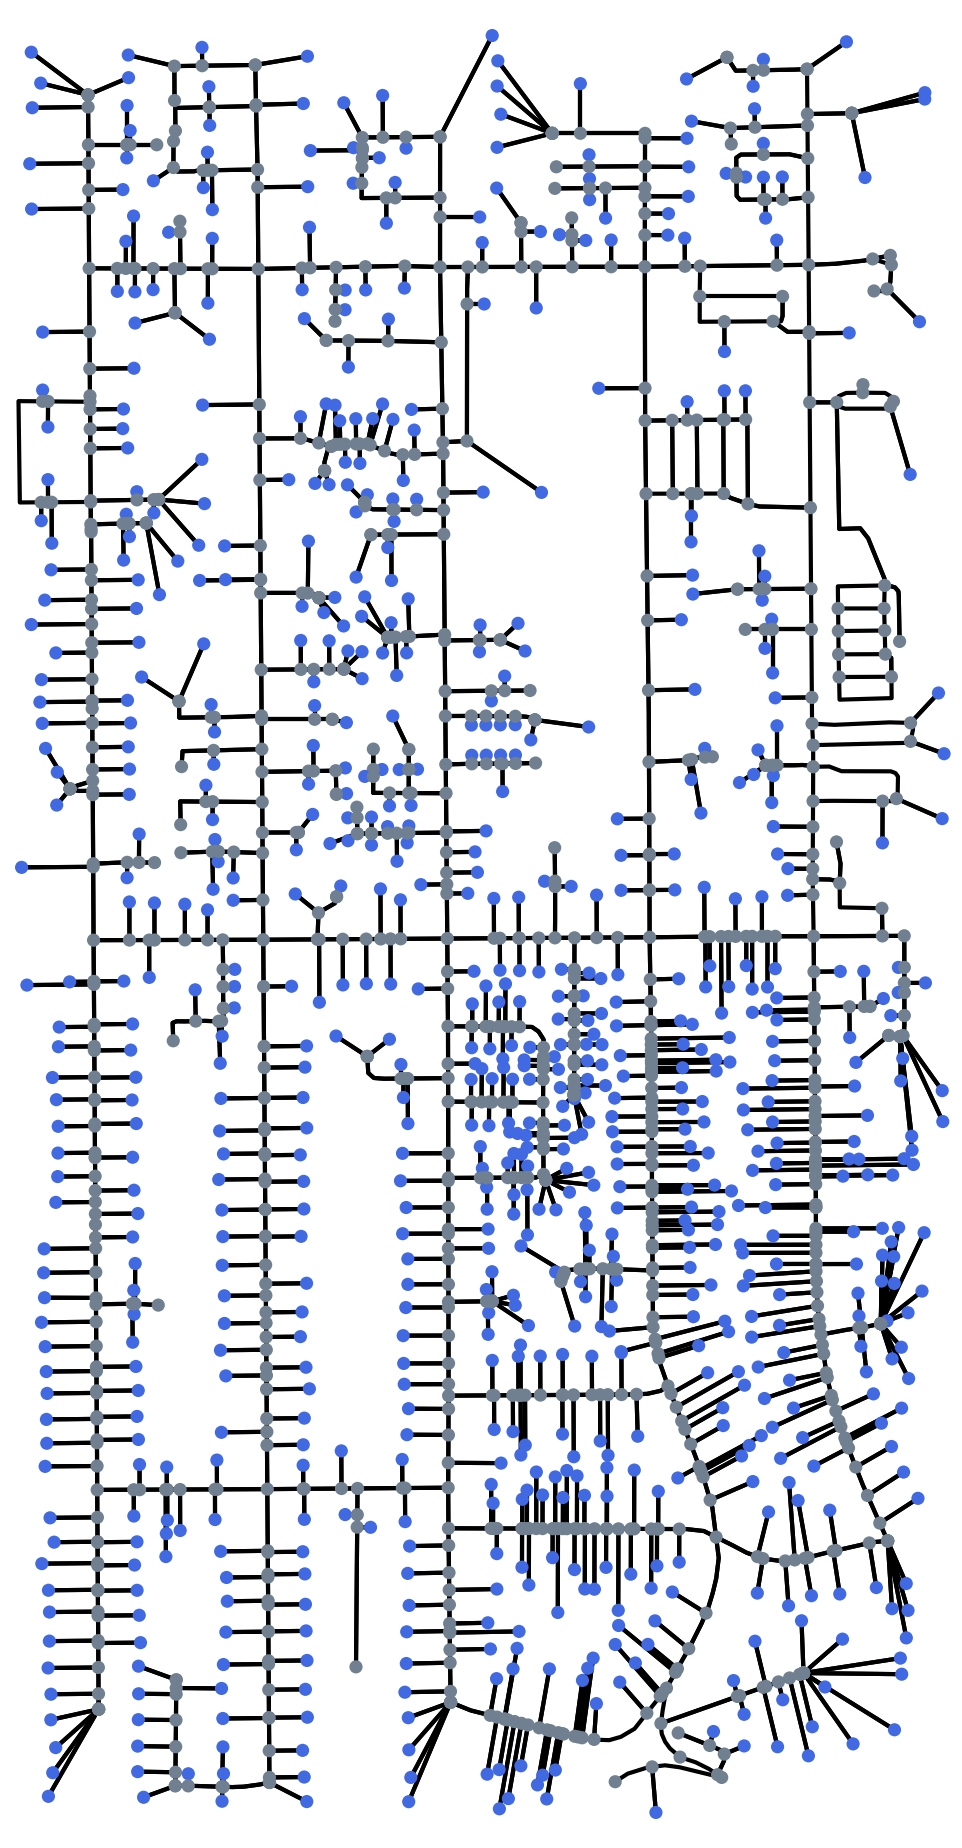
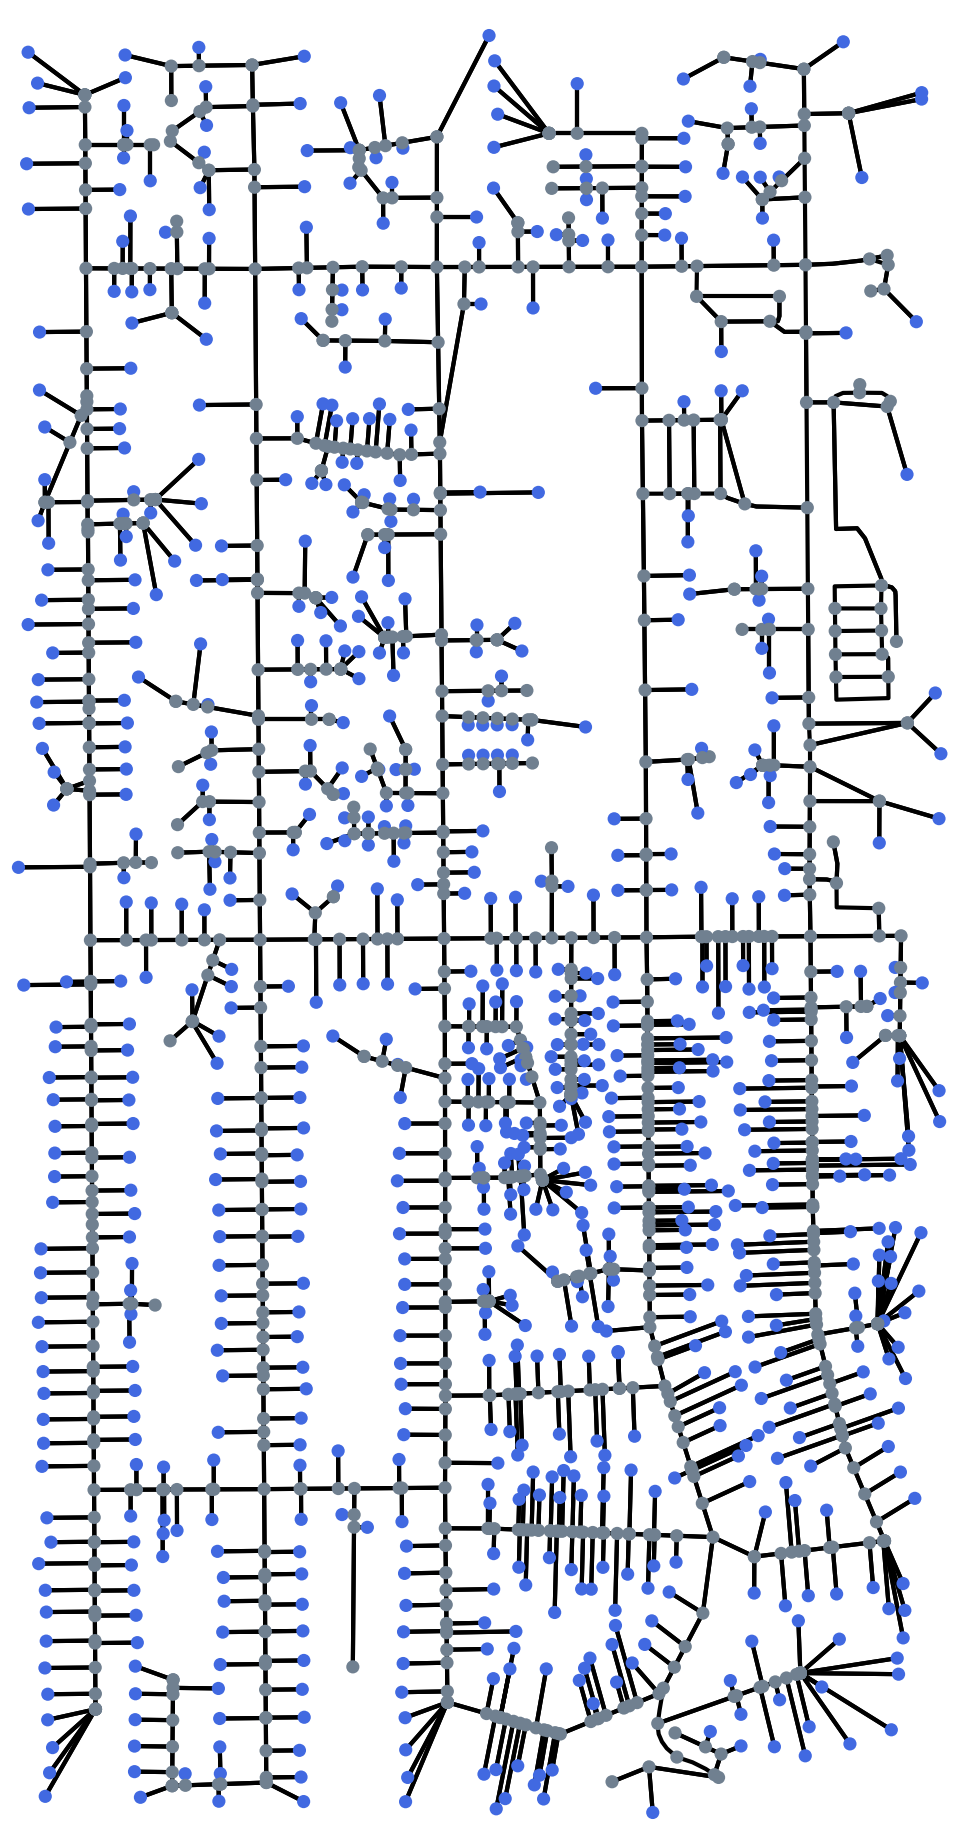
Connected Projection Nodes to Surrounding

diff --git a/bp25/backend/MultiTSP.py b/bp25/backend/MultiTSP.py
@@ -1,39 +1,116 @@
 import networkx as nx
 from networkx import MultiDiGraph
-from CreateGraph import create_graph
+from create_graph import create_graph
 import heapq
 
-def nearest_unvisited_node(grf : MultiDiGraph, start, visited):
-    #dijkstra out
+
+def nearest_unvisited_node(grf: MultiDiGraph, start, visited):
+    # Dijkstra: initialize distances and predecessors
     distances = {node: float('infinity') for node in grf.nodes()}
-    prev = [{node : -1 for node in grf.nodes()}]
+    # prev[node] will store the previous node along the shortest path
+    prev = {node: None for node in grf.nodes()}
+    distances[start] = 0
+    # Priority queue of (distance, node)
     pq = [(0, start)]
 
     while pq:
         curr_dist, curr_node = heapq.heappop(pq)
+        print(curr_dist, curr_node)
 
-        if (curr_node not in visited) and "node_type" in grf[curr_node]:
-            #generate path
-            node = curr_node
+        # If this node is a building and not yet visited, we've found a candidate.
+        if (curr_node not in visited) and (grf.nodes[curr_node].get("node_type") == "building"):
+            # Reconstruct path from start to curr_node:
             path = []
-            while node != -1:
+            node = curr_node
+            while node is not None:
                 path.append(node)
                 node = prev[node]
-
+            # The path is currently from curr_node back to start, so reverse it.
+            path.reverse()
             return curr_node, curr_dist, path
 
+        # If we already found a shorter distance to curr_node, skip.
         if curr_dist > distances[curr_node]:
             continue
 
         for next_node in grf.neighbors(curr_node):
-            edge_dat = grf.get_edge_data(curr_node, next_node)
-            if (edge_dat['length'] + curr_dist < distances[next_node]):
-                distances[next_node] = edge_dat['length'] + curr_dist
+            edge_data = grf.get_edge_data(curr_node, next_node)[0]
+            # Assume each edge has a key 'length'
+
+            new_dist = curr_dist + edge_data['length']
+            if new_dist < distances[next_node]:
+                distances[next_node] = new_dist
                 prev[next_node] = curr_node
-                heapq.heappush(pq, (distances[next_node], next_node))
+                heapq.heappush(pq, (new_dist, next_node))
+    # If no unvisited building is found:
+    return None
 
 
-def get_init_solution(grf, starting_pts):
-    # Greedy solution. Take the point with the min length so far, find nearest unvisited node, connect using shortest path
+def get_init_solution(grf: MultiDiGraph, starting_pts):
+    """
+    Greedy initialization for multi-party TSP.
+    starting_pts: list of nodes that serve as initial starting points for separate routes.
+
+    The algorithm works by maintaining one route per starting point.
+    At each iteration, the route with the smallest current length is chosen,
+    and extended by connecting (via the shortest path) its last node to the nearest unvisited building.
+    """
+    # Initialize routes and route lengths.
+    # routes: dict mapping starting_pt to list of nodes in that route.
+    routes = {pt: [pt] for pt in starting_pts}
+    route_lengths = {pt: 0 for pt in starting_pts}
+
+    # All nodes with node_type "building" that we want to cover.
+    building_nodes = {node for node in grf.nodes() if grf.nodes[node].get("node_type") == "building"}
+    # Mark starting points as visited.
+    visited = set(starting_pts)
+
+    # Continue until all building nodes are visited or no extension is possible.
+    while visited != building_nodes:
+        # Choose the route with minimal current length.
+        best_start = min(route_lengths, key=lambda pt: route_lengths[pt])
+        current_route = routes[best_start]
+        last_node = current_route[-1]
+
+        # Find the nearest unvisited building from the last node.
+        result = nearest_unvisited_node(grf, last_node, visited)
+        if result is None:
+            # No reachable unvisited building found; break out.
+            break
+        next_node, dist, sub_path = result
+        # sub_path is the shortest path from last_node to next_node.
+        # To avoid duplication, remove the first node (which equals last_node).
+        extension = sub_path[1:]
+
+        # Extend the chosen route.
+        routes[best_start].extend(extension)
+        route_lengths[best_start] += dist
+
+        # Mark all newly added nodes as visited.
+        visited.update(extension)
+
+    return routes, route_lengths
 
 
+# Example usage:
+if __name__ == "__main__":
+    # Assume create_graph() creates a networkx.MultiDiGraph with proper "node_type" attributes
+    north, south, east, west = 34.1418976, 34.13, -118.1330033, -118.14
+    bbox = (north, south, east, west)
+
+    print("Creating Graph")
+
+    grf = create_graph(bbox)
+
+    print("Finished Creating Graph")
+    # List of starting points (for instance, predetermined nodes)
+
+    import random
+
+    starting_pts = random.sample([n for n, dat in grf.nodes(data=True) if dat.get('node_type') == 'building'], 5)
+
+    print("Getting Routes")
+    routes, route_lengths = get_init_solution(grf, starting_pts)
+    for start, route in routes.items():
+        print(f"Route starting at {start}: {route}")
+        print(f"Total length: {route_lengths[start]}")

diff --git a/bp25/backend/create_graph.py b/bp25/backend/create_graph.py
@@ -32,7 +32,7 @@ def get_closest_perp(G, point):
     perpendicular_line = LineString([point, projection_point])
 
     # return u, v, key, perpendicular_line, projection_point, edge_geom
-    return perpendicular_line, projection_point
+    return perpendicular_line, projection_point, u, v
 
 
 def add_perp(G_combined, building_node_id):
@@ -46,12 +46,31 @@ def add_perp(G_combined, building_node_id):
 
     # Find nearest street edge and compute the perpendicular line.
     # u, v, key, perp_line, proj_point, edge_geom = get_nearest_edge_perpendicular_line(G_combined, building_point)
-    perp_line, proj_point = get_closest_perp(G_combined, building_point)
+
+    # for node, dat in G_combined.nodes(data=True):
+    #     if "x" not in dat:
+    #         print(node)
+    #         print(dat)
+    #         exit(0)
+
+    perp_line, proj_point, u, v = get_closest_perp(G_combined, building_point)
+
 
     # Create a new node for the projection point.
     # Use a unique id (e.g., a negative number or use a naming scheme).
     projection_node_id = f"proj_{building_node_id}"
     G_combined.add_node(projection_node_id, x=proj_point.x, y=proj_point.y, node_type='projection')
+
+    G_combined.remove_edge(u, v)
+    if G_combined.has_edge(v, u):
+        G_combined.remove_edge(v, u)
+    distU = ((proj_point.x - G_combined.nodes[u]["x"]) ** 2 + (proj_point.y - G_combined.nodes[u]["y"]) ** 2) ** 0.5
+    distV = ((proj_point.x - G_combined.nodes[v]["x"]) ** 2 + (proj_point.y - G_combined.nodes[v]["y"]) ** 2) ** 0.5
+
+    G_combined.add_edge(projection_node_id, v, length=distV)
+    G_combined.add_edge(v, projection_node_id, length=distV)
+    G_combined.add_edge(projection_node_id, u, length=distU)
+    G_combined.add_edge(u, projection_node_id , length=distU)
 
     return building_node_id, projection_node_id, perp_line.length, perp_line
 
@@ -89,8 +108,8 @@ def create_graph(bounding_coords):
     # For each building centroid, add it as a node and connect it to the nearest street node
     for idx, row in buildings.iterrows():
         iterrr += 1
-        # if (iterrr % 100 == 0):
-        #     print(iterrr)
+        if (iterrr % 100 == 0):
+            print(iterrr)
         centroid = row['centroid']
 
         # Create a unique node id (e.g., negative id)
@@ -106,11 +125,11 @@ def create_graph(bounding_coords):
 
     for building_node_id, projection_node_id, leng, perp_line in edges_to_add:
         G_combined.add_edge(building_node_id, projection_node_id,
-                            length=0,
+                            length=1e-10,
                             geometry=perp_line,
                             is_perpendicular_edge=True)
         G_combined.add_edge(projection_node_id, building_node_id,
-                            length=0,
+                            length=1e-10,
                             geometry=perp_line,
                             is_perpendicular_edge=True)
 
@@ -129,5 +148,12 @@ def display_graph(G, save=False):
 if __name__ == '__main__':
     north, south, east, west = 34.1418976, 34.13, -118.1330033, -118.14
     bbox = (north, south, east, west)
-    G = create_graph(bbox)
-    display_graph(G, save=True)
+    G_combined = create_graph(bbox)
+    display_graph(G_combined, save=True)
+
+    for node, dat in G_combined.nodes(data=True):
+        if dat.get('node_type') == 'projection':
+            for nbr in G_combined.neighbors(node):
+                print(nbr, end=" ")
+            print()
+        
